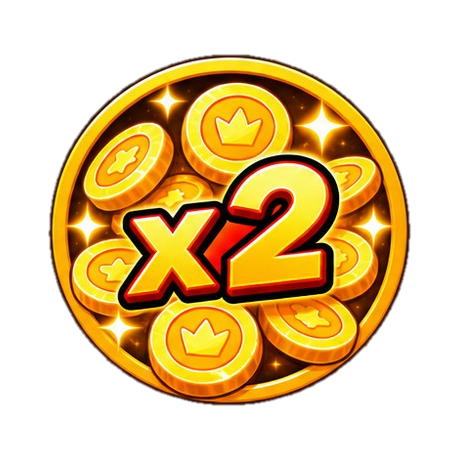
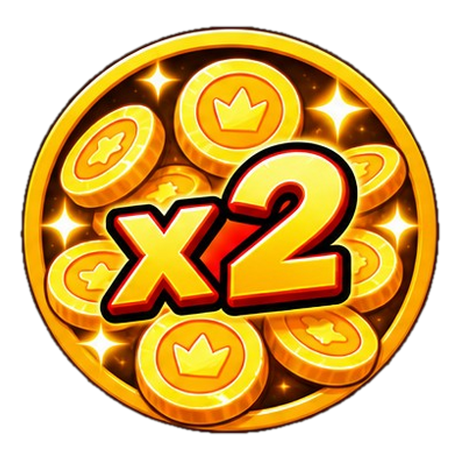
골드 2배 아이콘 크기 확대(78%->92% fill)로 다른 아이콘과 시각적 균형 맞춤
원인 규명은 못했지만(에셋/CSS/DOM 모두 다른 아이콘과 동일하게 측정됨),
사용자가 실기기에서 반복 확인한 크기 차이를 그대로 인정하고 실용적으로
해결 — 콘텐츠 바운딩박스를 캔버스의 92%까지 채우도록 확대 재처리.

diff --git a/mole/index.html b/mole/index.html
@@ -561,7 +561,7 @@
       <div id="lane-button-bar">
         <!-- 배포 버전 표식(스크린샷으로 어느 버전인지 확인용) — 화면 좌하단에 두면 다른 UI에
              가려 잘 안 보인다는 사용자 지적으로, 하트 아이콘(다이얼패드 1번 칸) 바로 위로 이동. -->
-        <div id="build-tag" aria-hidden="true">v698</div>
+        <div id="build-tag" aria-hidden="true">v699</div>
         <!-- 피버타임(터치캐치 보너스타임) 전광판 — 버튼보드 자리를 통째로 덮는 오버레이,
              평소엔 hidden, 피버 중에만 콤보/잔여시간 표시(사용자 지정: "전광판처럼"). -->
         <div id="fever-scoreboard" class="fever-scoreboard" hidden>
@@ -727,7 +727,7 @@
       } else {
         // ?v= 로 매 배포마다 URL을 바꿔서 GitHub Pages의 sw.js 캐시(max-age=600)를 무조건 우회 —
         // 안 그러면 배포 직후에도 최대 10분간 옛 서비스워커가 안 갈리는 경우가 있었음(사용자 보고).
-        navigator.serviceWorker.register('sw.js?v=698').catch(function () {});
+        navigator.serviceWorker.register('sw.js?v=699').catch(function () {});
       }
     });
   }

diff --git a/mole/sw.js b/mole/sw.js
@@ -3,7 +3,7 @@
 // 폴백 전용으로만 갱신한다. (예전엔 stale-while-revalidate라 배포해도 "다음 실행"에야
 // 반영돼 사용자 체감 대기가 길었음 — 온라인=항상 최신, 오프라인=마지막 캐시로 변경.)
 // SHELL 목록 자체가 바뀔 때만 CACHE 를 올린다.
-const CACHE = 'mole-game-v698';
+const CACHE = 'mole-game-v699';
 
 // 화면별 BGM(audio/bgm-*.mp3)은 v275 부터 SHELL 에 포함 — 기본 켜짐(v272)이라 항상 필요하고,
 // 캐시가 안 돼 있으면 오프라인/느린망에서 재생 실패했음.
